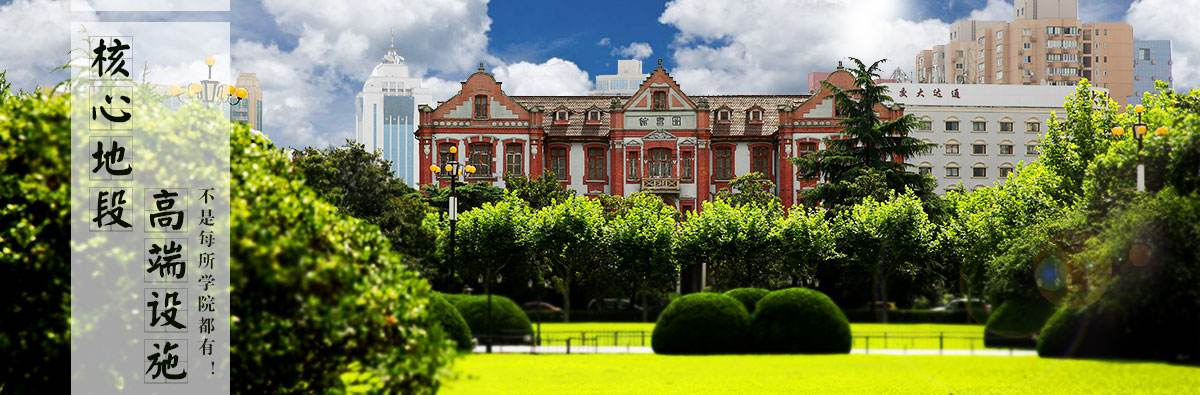
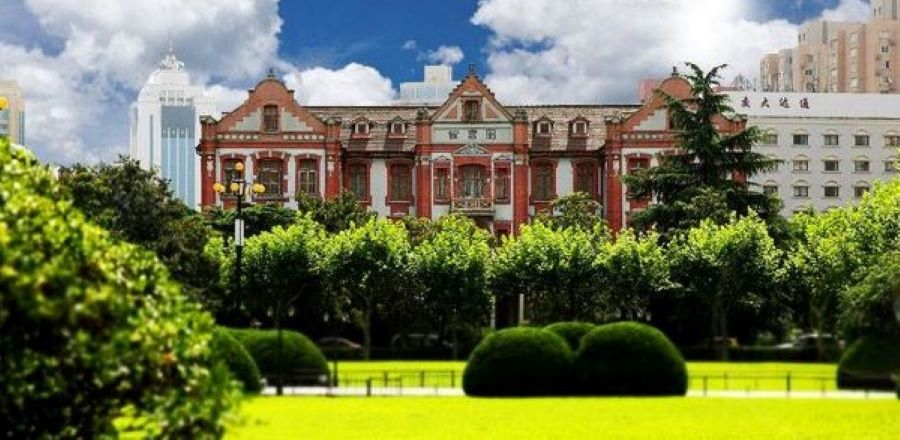
修改轮播图片

diff --git a/Tutor_system_group4/templates/index2.html b/Tutor_system_group4/templates/index2.html
@@ -24,7 +24,7 @@
 
             <!--3.轮播图(扣过来)-->
 
-            <div id="carouselExampleIndicators" class="carousel slide" data-ride="carousel">
+            <div id="carouselExampleIndicators" class="carousel slide carousel-fade" data-ride="carousel">
   <ol class="carousel-indicators">
     <li data-target="#carouselExampleIndicators" data-slide-to="0" class="active"></li>
     <li data-target="#carouselExampleIndicators" data-slide-to="1"></li>
